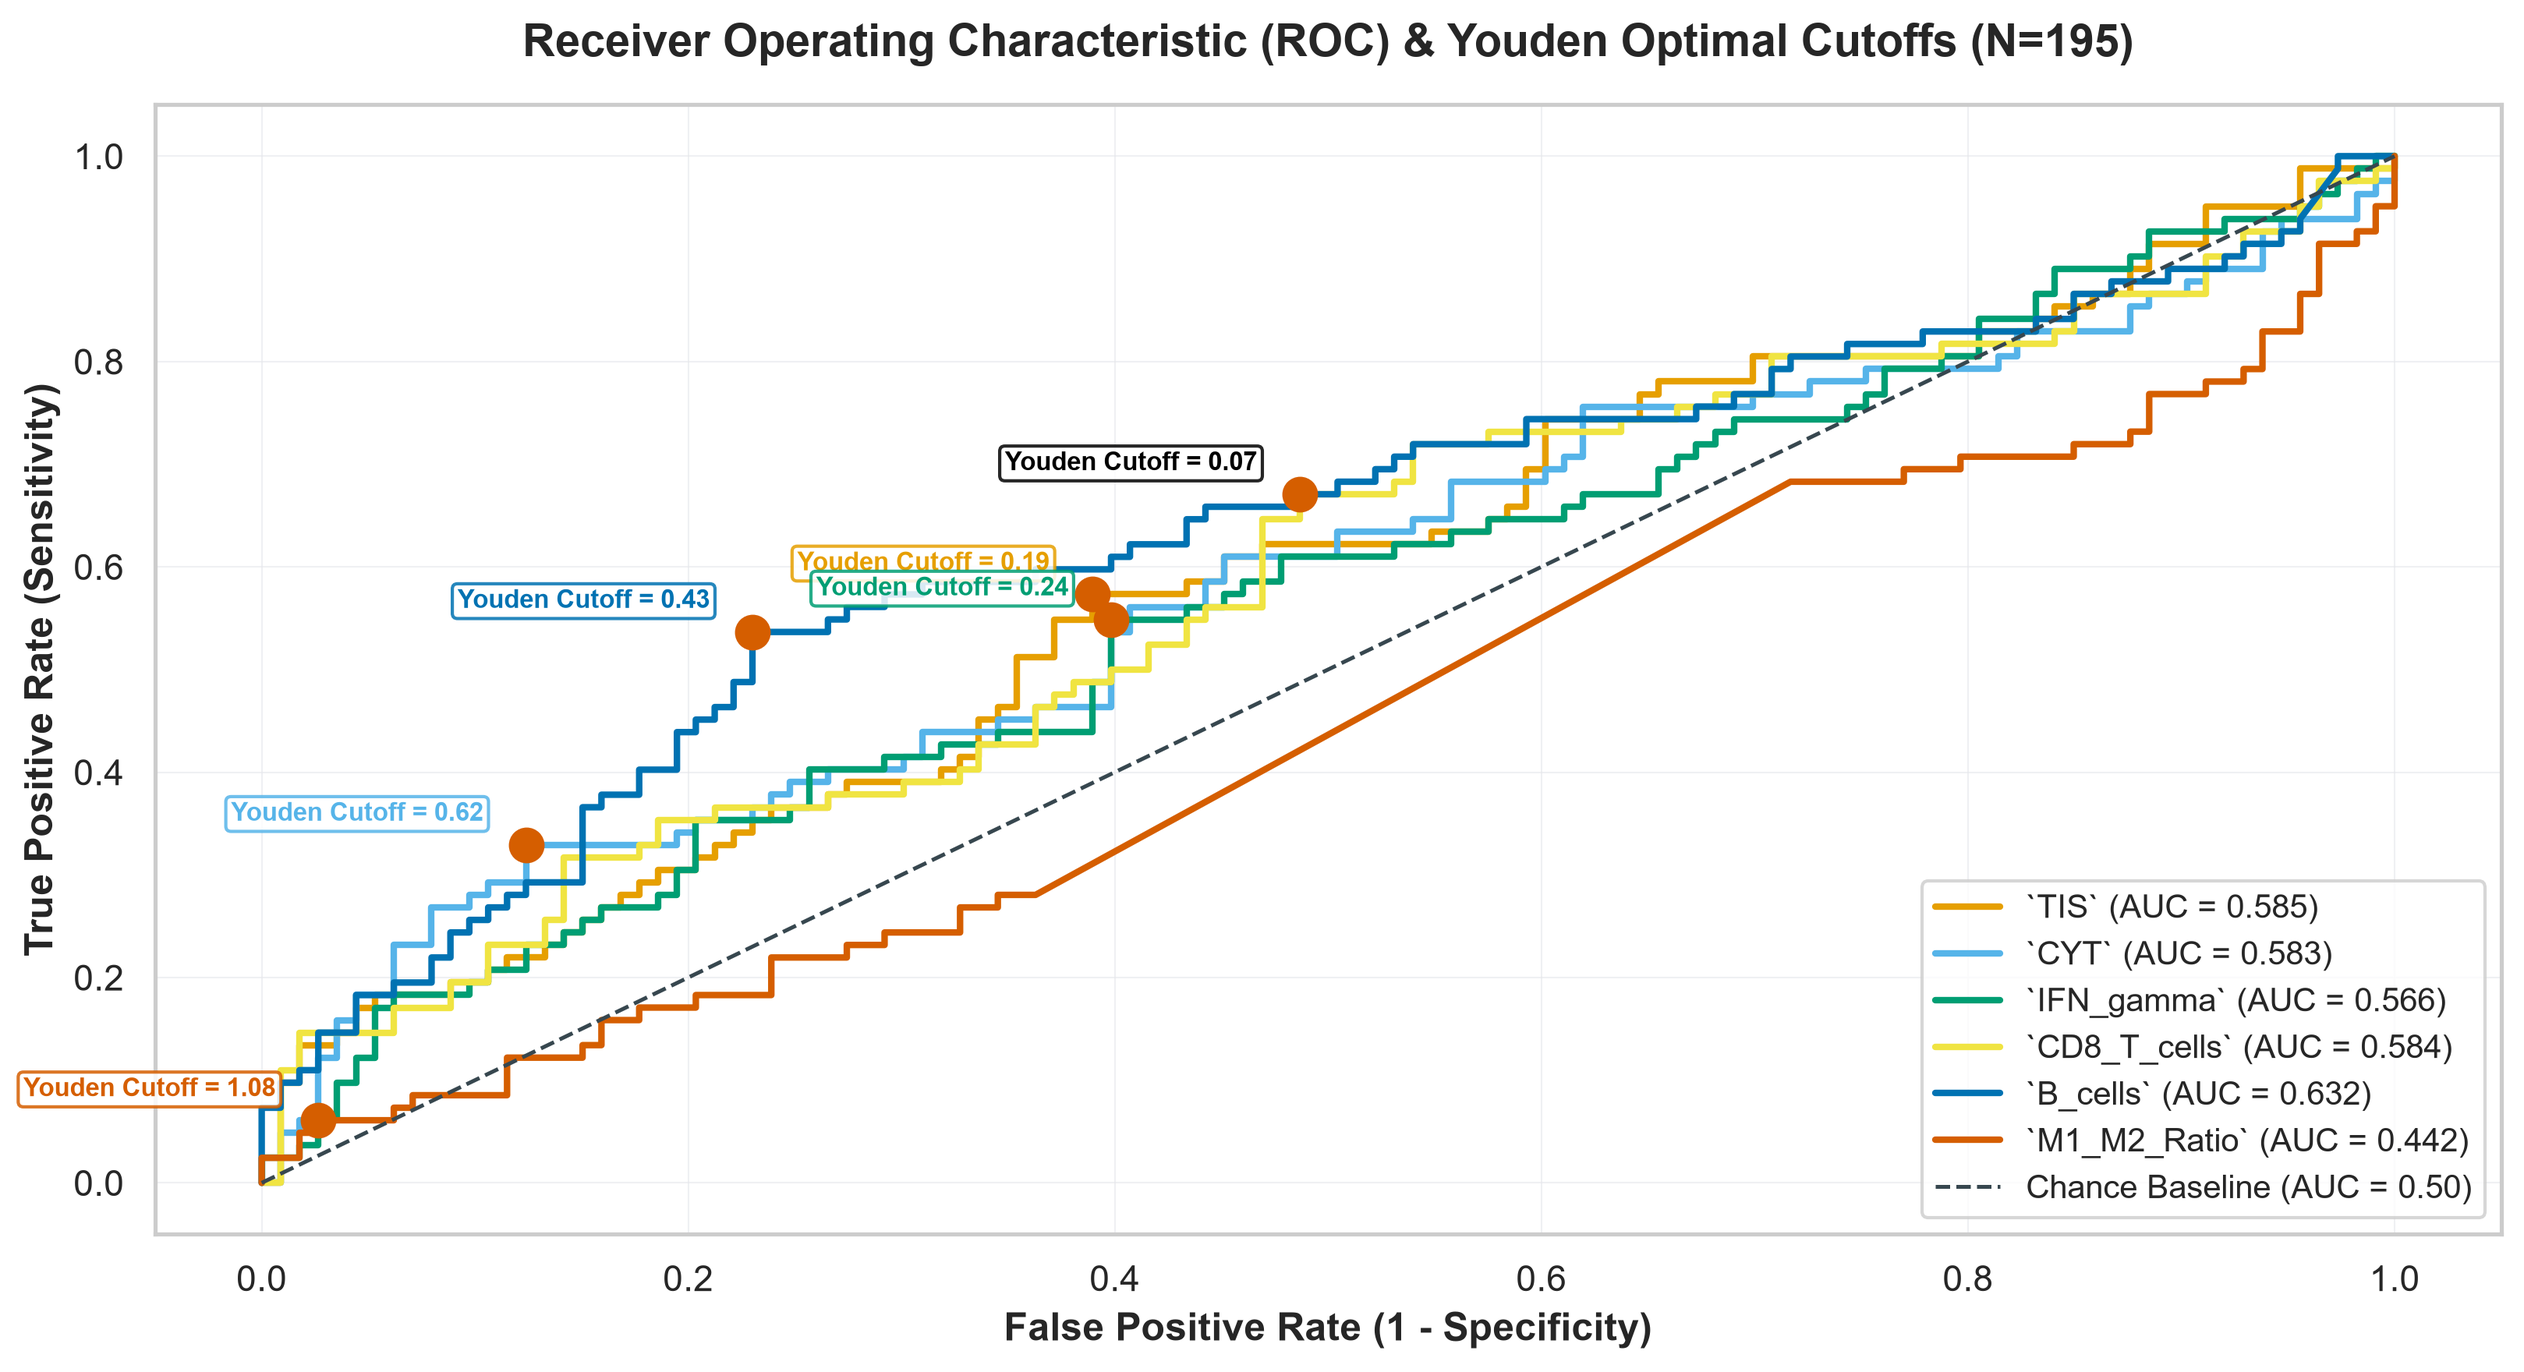
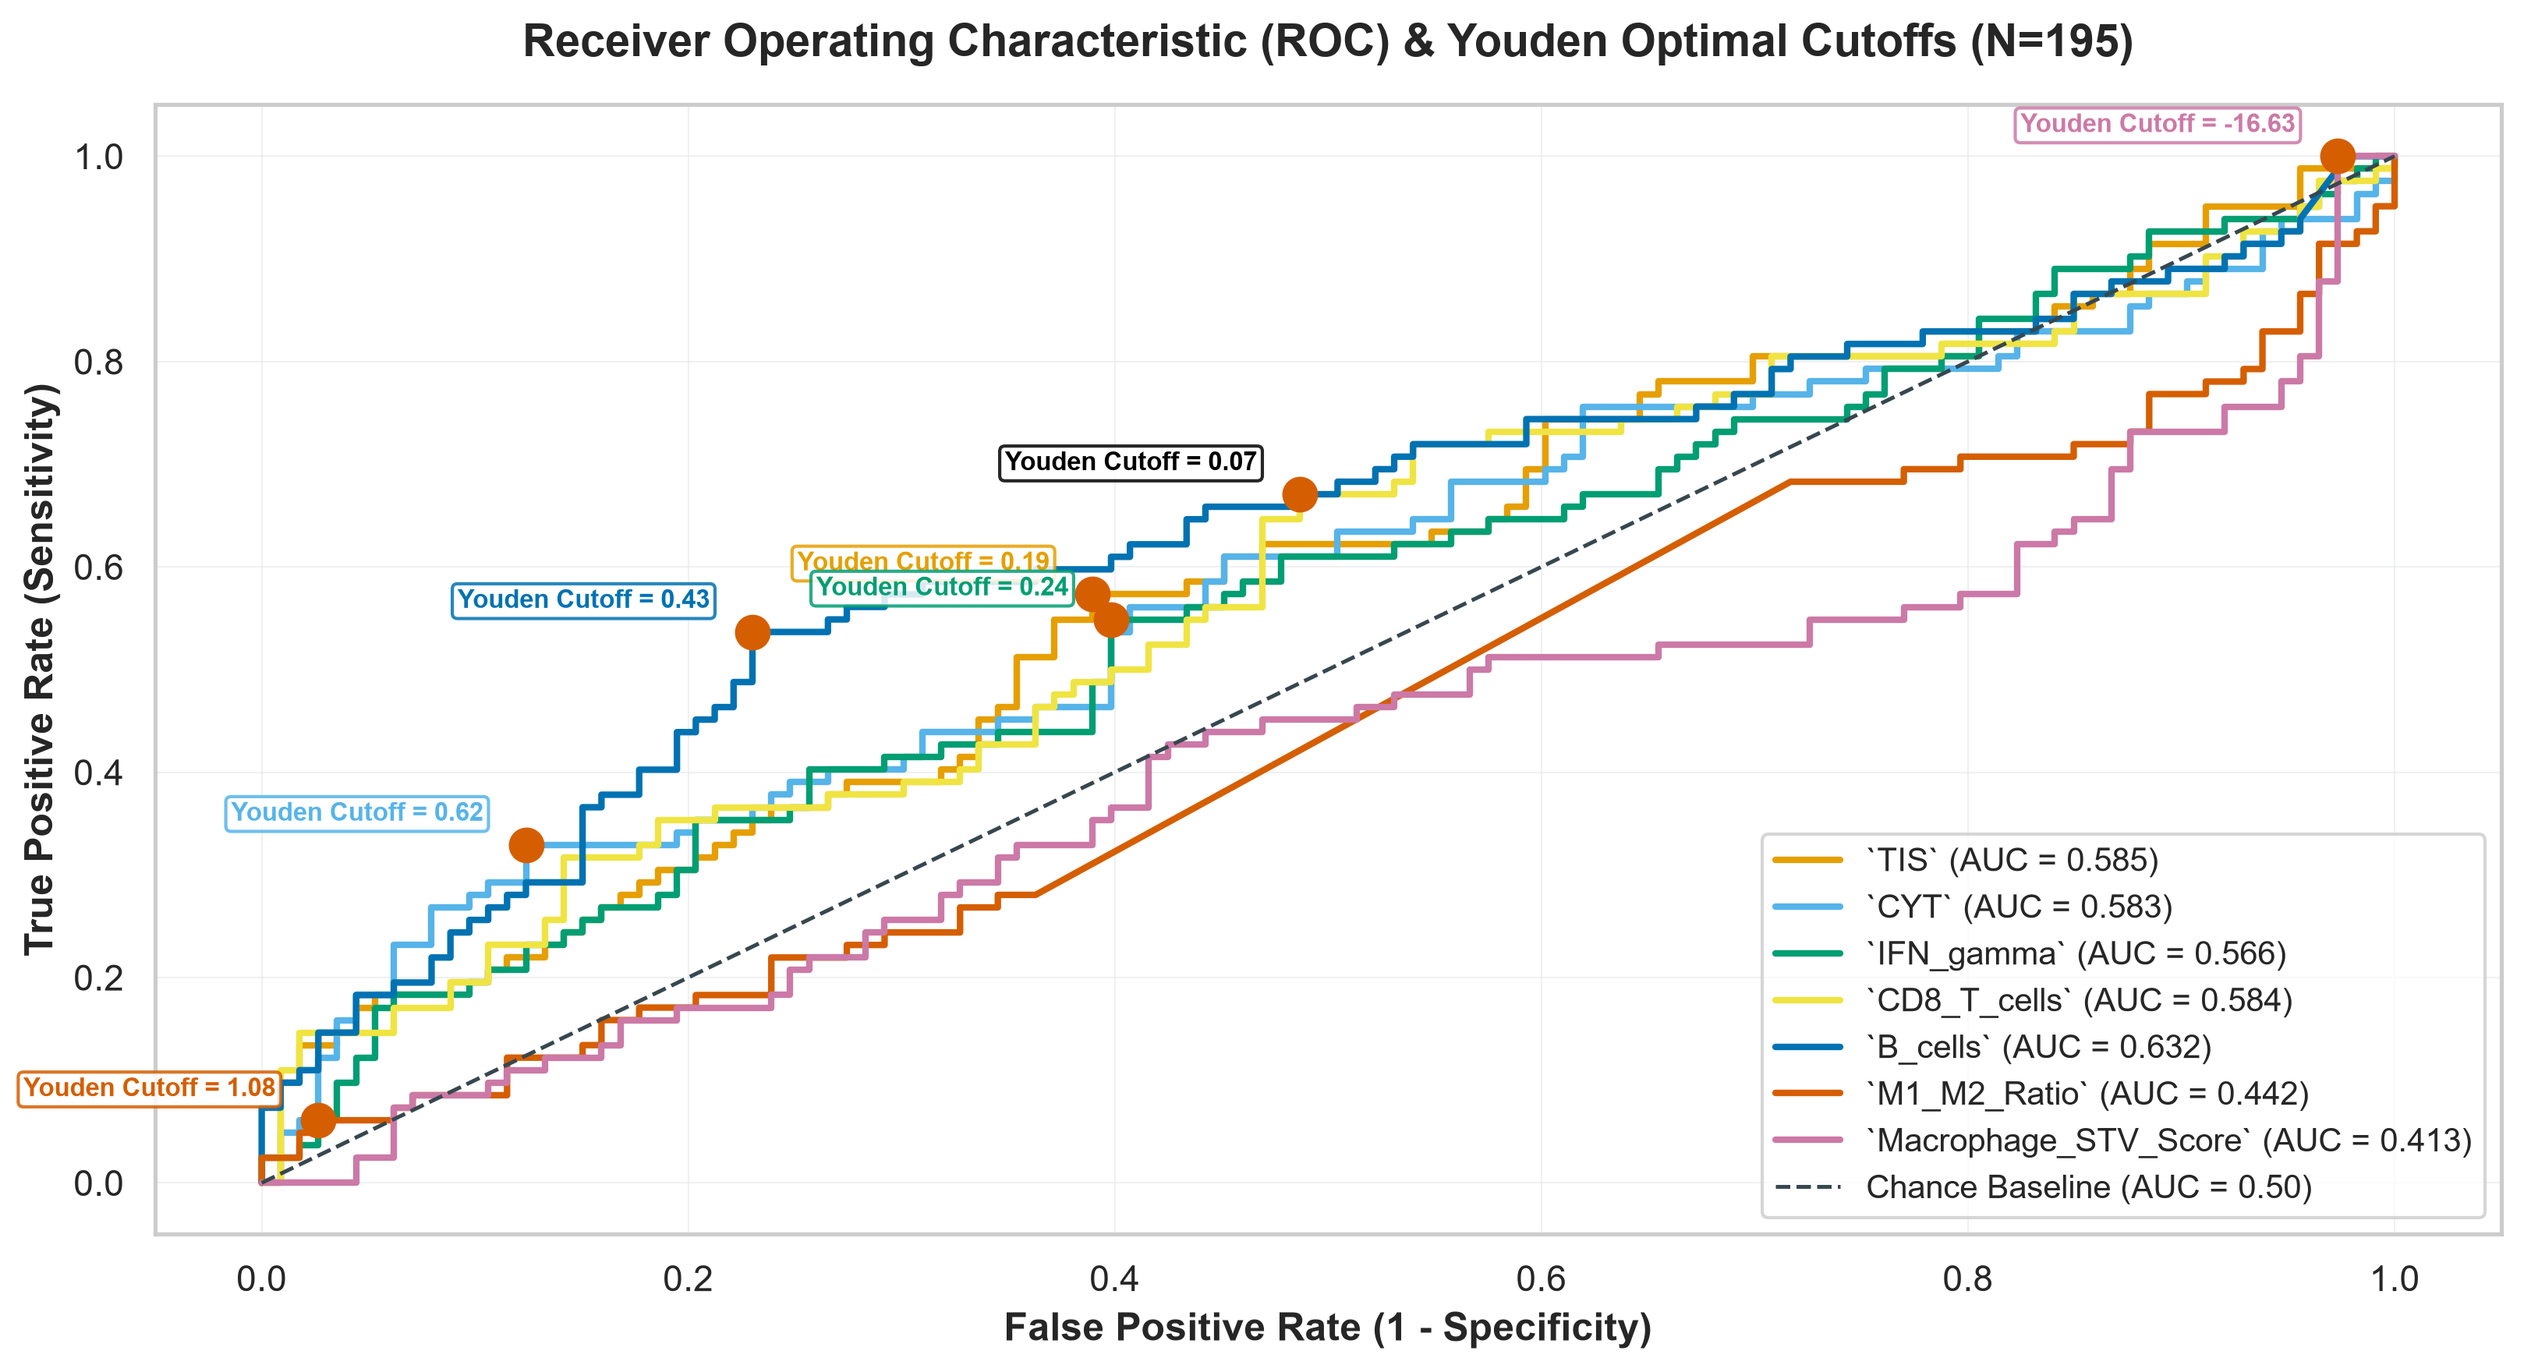
refactor(q5/phase2): resolve 8 code smells in 02_feature_analysis.py
- delete(q5/src): remove stub feature_analysis.py (all 4 functions were pass-through stubs, never imported by Phase 2; Option B chosen)
- fix: replace bare except Exception with except (LinAlgError, ValueError) + warnings.warn for actionable logistic regression failure messages
- feat: extract 8 magic numbers to named module-level constants: MIN_GROUP_SAMPLES=5, STD_EPSILON=1e-8, LOGIT_MAX_ITER=100, BT601_LUMA_R/G/B (BT.601 ITU-R coefficients), LUMA_DARK_THRESHOLD=0.55
- fix: replace hardcoded Youden feature list in main() with KEY_IMMUNE_FEATURES from biology_constants; adds Macrophage_STV_Score to cutoff analysis
- style: split overlong ax.set_title() call across multiple lines in plot_volcano
- add import warnings (required for warnings.warn in fixed except clause)

Verified: 02_feature_analysis.py PASS (4 plots, 3 CSVs; youden_cutoffs.csv now 7 rows incl. Macrophage_STV_Score), run_q5_pipeline.py PASS (Phases 1-7), generate_q5_report.py PASS

diff --git a/q5-patient-stratification/scripts/02_feature_analysis.py b/q5-patient-stratification/scripts/02_feature_analysis.py
@@ -7,6 +7,7 @@ and exports publication-quality 300 DPI plots and statistical summary CSVs.
 """
 
 import contextlib
+import warnings
 import matplotlib.patches as mpatches
 from pathlib import Path
 import sys
@@ -70,6 +71,23 @@ HEATMAP_VMIN = -0.8
 HEATMAP_VMAX = 0.8
 LOG_P_SIG_THRESHOLD = 1.301  # -log10(0.05)
 
+# Minimum per-group patient count required for Mann-Whitney U validity
+MIN_GROUP_SAMPLES: int = 5
+
+# Numerical floor added to standard deviation to prevent division-by-zero during z-scoring
+STD_EPSILON: float = 1e-8
+
+# Convergence iteration cap for statsmodels Logit interaction model
+LOGIT_MAX_ITER: int = 100
+
+# BT.601 ITU-R standard luminance coefficients (R, G, B channel weights)
+BT601_LUMA_R: float = 0.299
+BT601_LUMA_G: float = 0.587
+BT601_LUMA_B: float = 0.114
+
+# Perceived-brightness threshold below which white annotation text is used (vs black)
+LUMA_DARK_THRESHOLD: float = 0.55
+
 set_presentation_style()
 
 
@@ -103,7 +121,7 @@ def run_univariate_associations(df: pd.DataFrame) -> pd.DataFrame:
         r_vals = resp[col].dropna().values
         nr_vals = non_resp[col].dropna().values
 
-        if len(r_vals) < 5 or len(nr_vals) < 5:
+        if len(r_vals) < MIN_GROUP_SAMPLES or len(nr_vals) < MIN_GROUP_SAMPLES:
             continue
 
         stat, pval = stats.mannwhitneyu(r_vals, nr_vals, alternative="two-sided")
@@ -177,17 +195,22 @@ def compute_interaction_matrix(df: pd.DataFrame) -> pd.DataFrame:
             if np.sum(x_drv == 1) < MIN_MUTANT_SAMPLES:
                 continue
 
-            std_imm = (x_imm - np.mean(x_imm)) / (np.std(x_imm) + 1e-8)
+            std_imm = (x_imm - np.mean(x_imm)) / (np.std(x_imm) + STD_EPSILON)
             interaction = std_imm * x_drv
 
             X = np.column_stack([np.ones(len(y)), std_imm, x_drv, interaction])
             try:
-                model = sm.Logit(y, X).fit(disp=False, maxiter=100)
+                model = sm.Logit(y, X).fit(disp=False, maxiter=LOGIT_MAX_ITER)
                 beta_inter = float(model.params[3])
                 pval_inter = float(model.pvalues[3])
-            except Exception:
-                beta_inter = 0.0
-                pval_inter = 1.0
+            except (np.linalg.LinAlgError, ValueError) as err:
+                warnings.warn(
+                    f"Logistic regression failed for {imm} × {drv}: {err}. "
+                    "Setting beta=0.0, p=1.0 as fallback.",
+                    UserWarning,
+                    stacklevel=2,
+                )
+                beta_inter, pval_inter = 0.0, 1.0
 
             results.append({
                 "Immune_Feature": imm,
@@ -231,7 +254,12 @@ def plot_volcano(df_assoc: pd.DataFrame, save_path: Path) -> None:
         frameon=True,
     )
 
-    ax.set_title("Ranked Biomarker Association Effect Sizes (Cohen's d: Responders vs Non-Responders)", fontsize=14, fontweight="bold", pad=15)
+    ax.set_title(
+        "Ranked Biomarker Association Effect Sizes (Cohen's d: Responders vs Non-Responders)",
+        fontsize=14,
+        fontweight="bold",
+        pad=15,
+    )
     ax.set_xlabel("Cohen's d Effect Size", fontsize=12, fontweight="bold")
     ax.set_ylabel("Engineered Biomarker Feature", fontsize=12, fontweight="bold")
 
@@ -356,8 +384,8 @@ def _annotate_heatmap_cells(ax: plt.Axes, piv_beta: pd.DataFrame, piv_raw_p: pd.
 
             norm_val = np.clip((val_b - HEATMAP_VMIN) / (HEATMAP_VMAX - HEATMAP_VMIN), 0, 1)
             rgba = okabe_cmap(norm_val)
-            luminance = 0.299 * rgba[0] + 0.587 * rgba[1] + 0.114 * rgba[2]
-            text_color = "white" if luminance < 0.55 else "black"
+            luminance = BT601_LUMA_R * rgba[0] + BT601_LUMA_G * rgba[1] + BT601_LUMA_B * rgba[2]
+            text_color = "white" if luminance < LUMA_DARK_THRESHOLD else "black"
 
             ax.text(j + 0.5, i + 0.36, f"β = {val_b:+.2f}", ha="center", va="center", fontsize=9.5, fontweight="bold", color=text_color)
             ax.text(j + 0.5, i + 0.68, f"p = {val_pval:.3f}", ha="center", va="center", fontsize=7.5, fontweight="normal", color=text_color, alpha=0.9)
@@ -444,7 +472,8 @@ def main() -> None:
     df_assoc.to_csv(assoc_file, index=False)
     print(f"Saved univariate association results to {rel_path(assoc_file)}")
 
-    target_feats = [c for c in ["TIS", "CYT", "IFN_gamma", "CD8_T_cells", "B_cells", "M1_M2_Ratio"] if c in df_feat.columns]
+    # Use the centralised biology constant to prevent list drift vs KEY_IMMUNE_FEATURES
+    target_feats = [c for c in KEY_IMMUNE_FEATURES if c in df_feat.columns]
     df_cutoffs = compute_youden_cutoffs(df_feat, target_feats)
     cutoffs_file = OUTPUT_DIR / "youden_cutoffs.csv"
     df_cutoffs.to_csv(cutoffs_file, index=False)

diff --git a/q5-patient-stratification/reports/q5_phases/phase_2.md b/q5-patient-stratification/reports/q5_phases/phase_2.md
@@ -7,12 +7,12 @@ tags:
   - patient-stratification
   - phase-2
   - q5
-created: 2026-08-01 00:04
+created: 2026-08-01 00:13
 cssclasses:
   - table-small
 obsidianEditingMode: preview
 obsidianUIMode: source
-updated: 2026-08-01 00:04
+updated: 2026-08-01 00:13
 ---
 
 ## 2. Phase 2: Deep Feature Interpretation & Decision Thresholds
@@ -74,14 +74,15 @@ Phase 2 evaluates biomarker discriminative power across $N_{\text{ICI}}$ patient
 
 ### Youden Optimal Decision Threshold Metrics
 
-| Biomarker Feature   | Optimal Cutoff   | Youden J   | Sensitivity   | Specificity   | AUC-ROC   |
-|:--------------------|:-----------------|:-----------|:--------------|:--------------|:----------|
-| `TIS`               | 0.191            | 0.184      | 57.3%         | 61.1%         | 0.585     |
-| `CYT`               | 0.621            | 0.205      | 32.9%         | 87.6%         | 0.583     |
-| `IFN_gamma`         | 0.243            | 0.151      | 54.9%         | 60.2%         | 0.566     |
-| `CD8_T_cells`       | 0.069            | 0.184      | 67.1%         | 51.3%         | 0.584     |
-| **`B_cells`**       | **0.430**        | **0.306**  | **53.7%**     | **77.0%**     | **0.632** |
-| `M1_M2_Ratio`       | 1.076            | 0.034      | 6.1%          | 97.3%         | 0.442     |
+| Biomarker Feature      | Optimal Cutoff   | Youden J   | Sensitivity   | Specificity   | AUC-ROC   |
+|:-----------------------|:-----------------|:-----------|:--------------|:--------------|:----------|
+| `TIS`                  | 0.191            | 0.184      | 57.3%         | 61.1%         | 0.585     |
+| `CYT`                  | 0.621            | 0.205      | 32.9%         | 87.6%         | 0.583     |
+| `IFN_gamma`            | 0.243            | 0.151      | 54.9%         | 60.2%         | 0.566     |
+| `CD8_T_cells`          | 0.069            | 0.184      | 67.1%         | 51.3%         | 0.584     |
+| **`B_cells`**          | **0.430**        | **0.306**  | **53.7%**     | **77.0%**     | **0.632** |
+| `M1_M2_Ratio`          | 1.076            | 0.034      | 6.1%          | 97.3%         | 0.442     |
+| `Macrophage_STV_Score` | -16.628          | 0.027      | 100.0%        | 2.7%          | 0.413     |
 
 ### Key Takeaways & Student Summary
 - **Best Single Marker**: `B_cells` is the single best individual marker for distinguishing responders from non-responders (AUC = 0.632).

diff --git a/PROJECT_MAP.md b/PROJECT_MAP.md
@@ -3,7 +3,7 @@
 > **Purpose**: Living reference document for agent orientation. Read this FIRST before
 > exploring the codebase. Eliminates redundant file-discovery across conversations.
 >
-> **Last updated**: 2026-08-01 (Phase 1 code smell audit: `safe_save_csv` extracted to new `src/utils/io.py`; `generate_obsidian_frontmatter` in `src/utils/formatting.py` extended with `extra_css_classes` param and Q5 `reporting.py` duplicate removed; `_claim_cluster_by_rule` in `phenotyping.py` refactored from mutable-output-param to `Optional[int]` return; `Optional[Path]` annotation fixed on `_build_and_save_matrix`; `suptitle` long line split; trailing blank line removed from `phenotyping.py`)
+> **Last updated**: 2026-08-01 (Phase 2 code smell audit: 8 smells resolved in `02_feature_analysis.py` — bare `except Exception` → specific `LinAlgError/ValueError` + `warnings.warn`; 6 magic numbers extracted to named constants (`MIN_GROUP_SAMPLES`, `STD_EPSILON`, `LOGIT_MAX_ITER`, BT.601 luminance coefficients, `LUMA_DARK_THRESHOLD`); hardcoded Youden feature list replaced with `KEY_IMMUNE_FEATURES` (now includes `Macrophage_STV_Score`); long `set_title` line split; stub `src/feature_analysis.py` deleted)
 
 ## Repository Overview
 
@@ -247,9 +247,8 @@ All four modules operate on **per-patient inputs only** — kinetic rate constan
 | `clustering.py` | `prepare_clustering_features()`, `run_kmeans()`, `plot_2d_cluster_projection()` |
 | `phenotyping.py` | `profile_clusters()`, `assign_phenotype_labels()`, violin/radar/heatmap plots |
 | `deconvolution.py` | Transcriptomic cell-type deconvolution from marker panels |
-| `feature_analysis.py` | Mann-Whitney U and Fisher's exact statistical testing |
 | `clinical_utility.py` | DCA net benefit and NNT calculators |
-| `reporting.py` | Obsidian frontmatter, markdown table formatting |
+| `reporting.py` | Obsidian frontmatter (re-exported from `src.utils.formatting`), markdown table formatting |
 
 ### Four Discovered Phenotypes
 

diff --git a/q5-patient-stratification/reports/q5_phases/phase_1.md b/q5-patient-stratification/reports/q5_phases/phase_1.md
@@ -7,12 +7,12 @@ tags:
   - patient-stratification
   - phase-1
   - q5
-created: 2026-08-01 00:04
+created: 2026-08-01 00:13
 cssclasses:
   - table-small
 obsidianEditingMode: preview
 obsidianUIMode: source
-updated: 2026-08-01 00:04
+updated: 2026-08-01 00:13
 ---
 
 ## 1. Phase 1: Multi-Modal Feature Matrix & Microenvironment Deconvolution

diff --git a/q5-patient-stratification/reports/q5_phases/phase_4.md b/q5-patient-stratification/reports/q5_phases/phase_4.md
@@ -7,12 +7,12 @@ tags:
   - patient-stratification
   - phase-4
   - q5
-created: 2026-08-01 00:04
+created: 2026-08-01 00:13
 cssclasses:
   - table-small
 obsidianEditingMode: preview
 obsidianUIMode: source
-updated: 2026-08-01 00:04
+updated: 2026-08-01 00:13
 ---
 
 ## 4. Phase 4: Phenotype Characterisation & Q3 ODE Digital Twin Dynamics

diff --git a/q5-patient-stratification/reports/q5_phases/phase_3.md b/q5-patient-stratification/reports/q5_phases/phase_3.md
@@ -7,12 +7,12 @@ tags:
   - patient-stratification
   - phase-3
   - q5
-created: 2026-08-01 00:04
+created: 2026-08-01 00:13
 cssclasses:
   - table-small
 obsidianEditingMode: preview
 obsidianUIMode: source
-updated: 2026-08-01 00:04
+updated: 2026-08-01 00:13
 ---
 
 ## 3. Phase 3: Unsupervised Phenotype Stratification (N = 699)

diff --git a/q5-patient-stratification/reports/q5_phases/phase_7.md b/q5-patient-stratification/reports/q5_phases/phase_7.md
@@ -7,12 +7,12 @@ tags:
   - patient-stratification
   - phase-7
   - q5
-created: 2026-08-01 00:04
+created: 2026-08-01 00:13
 cssclasses:
   - table-small
 obsidianEditingMode: preview
 obsidianUIMode: source
-updated: 2026-08-01 00:04
+updated: 2026-08-01 00:13
 ---
 
 ## 7. Phase 7: 3-Arm Decision Support & Treatability Scoring

diff --git a/q5-patient-stratification/reports/q5_phases/phase_6.md b/q5-patient-stratification/reports/q5_phases/phase_6.md
@@ -7,12 +7,12 @@ tags:
   - patient-stratification
   - phase-6
   - q5
-created: 2026-08-01 00:04
+created: 2026-08-01 00:13
 cssclasses:
   - table-small
 obsidianEditingMode: preview
 obsidianUIMode: source
-updated: 2026-08-01 00:04
+updated: 2026-08-01 00:13
 ---
 
 ## 6. Phase 6: Clinical Utility & Decision Curve Analysis

diff --git a/q5-patient-stratification/reports/q5_phases/phase_5.md b/q5-patient-stratification/reports/q5_phases/phase_5.md
@@ -7,12 +7,12 @@ tags:
   - patient-stratification
   - phase-5
   - q5
-created: 2026-08-01 00:04
+created: 2026-08-01 00:13
 cssclasses:
   - table-small
 obsidianEditingMode: preview
 obsidianUIMode: source
-updated: 2026-08-01 00:04
+updated: 2026-08-01 00:13
 ---
 
 ## 5. Phase 5: Subgroup-Specific Predictive Models

diff --git a/q5-patient-stratification/reports/q5_phases/index.md b/q5-patient-stratification/reports/q5_phases/index.md
@@ -7,12 +7,12 @@ tags:
   - patient-stratification
   - q5
   - index
-created: 2026-08-01 00:04
+created: 2026-08-01 00:13
 cssclasses:
   - table-small
 obsidianEditingMode: preview
 obsidianUIMode: source
-updated: 2026-08-01 00:04
+updated: 2026-08-01 00:13
 ---
 
 # Q5 Phase‑Specific Reports
